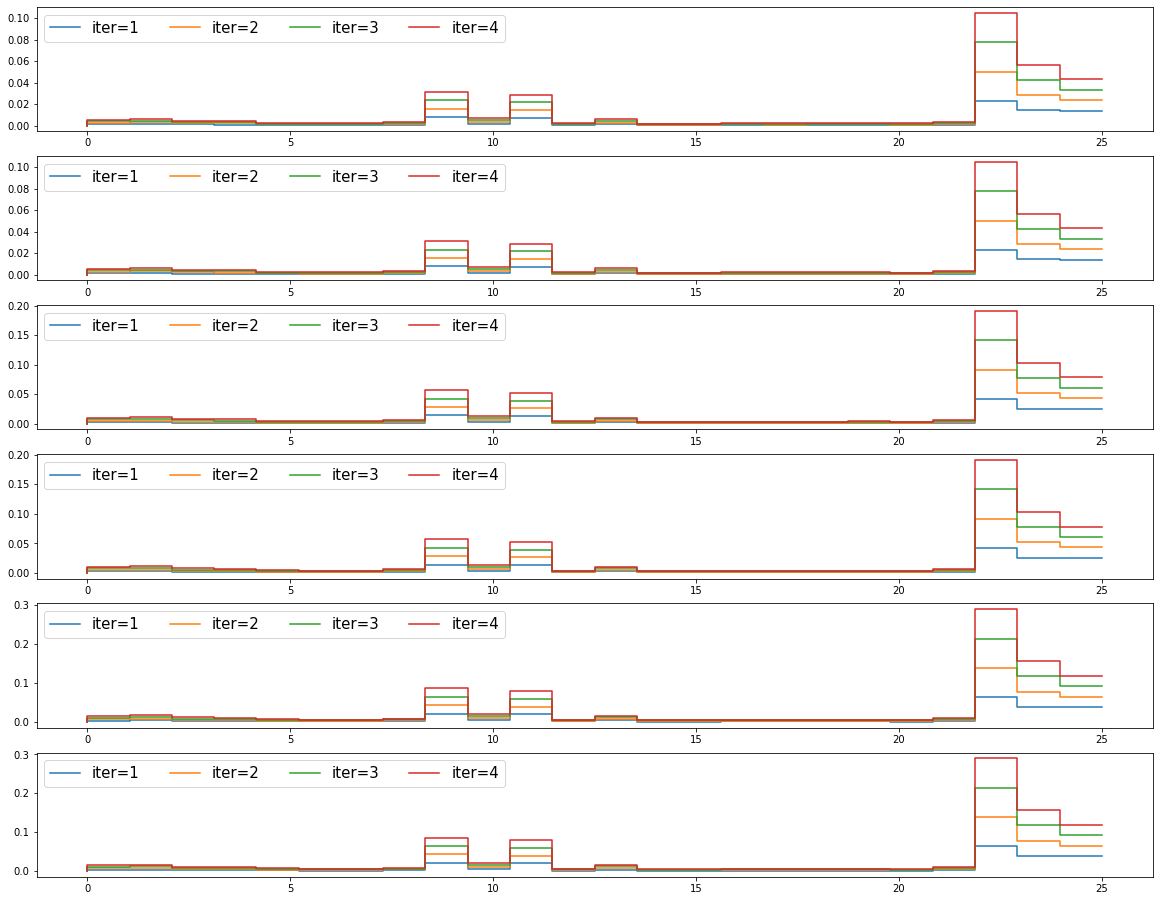
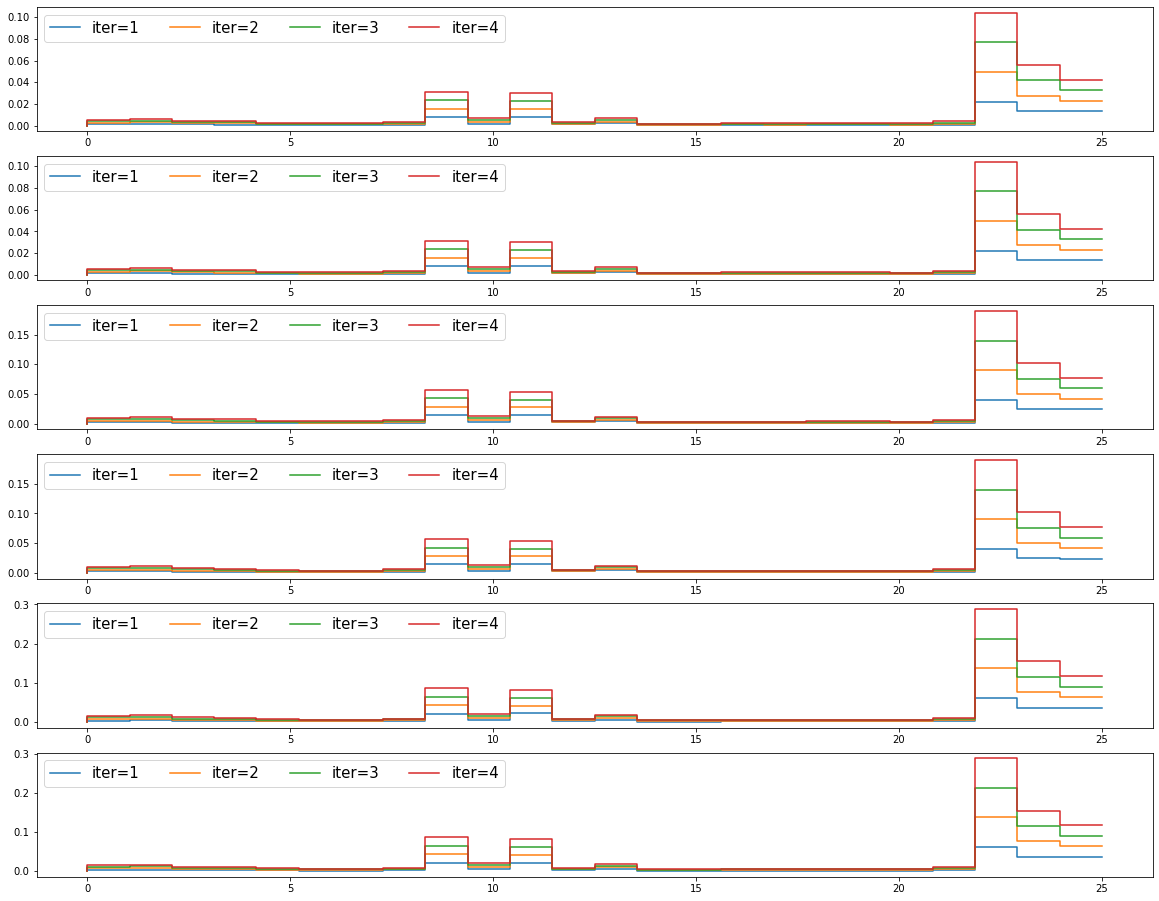
updated repo

diff --git a/opt-usage-toyexamp.py b/opt-usage-toyexamp.py
@@ -175,9 +175,9 @@ elabel = {(0,10):'E',(10,11):'P',(11,12):'P',(12,13):'P',(13,14):'P',
           (11,1):'S',(1,2):'S',(12,3):'S',(12,4):'S',(14,5):'S',(5,6):'S'}
 
 util = 50
-prefix = "samerate-"+"net4"
+prefix = "samerate-"+"net5"
 
-e_r = {(0,10):1e-12, (10,11):0.001*util,(11,12):0.001*util,(12,13):0.001*util,(13,14):0.001*util,
+e_r = {(0,10):1e-12, (10,11):0.001,(11,12):0.001,(12,13):0.001,(13,14):0.001*util,
           (11,1):0.0005,(1,2):0.0005,(12,3):0.0005,(12,4):0.0005,(14,5):0.0005,(5,6):0.0005}
 
 nx.set_edge_attributes(dist, e_r, 'r')
